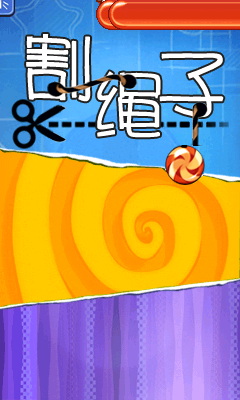
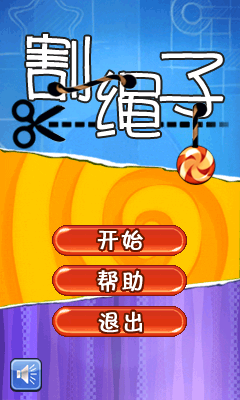
Refresh the four idle frames the CLZ fix changed, and re-state their rows
Re-capturing all 245 titles against 7826e3e reproduces 241 byte for byte.
Four move, all four because of 29235df (ARMv5 CLZ): a build of that commit
alone reproduces the new frames exactly, while b441741 and f1d9ca7 still
produce the old ones.  The change is text, and it is an improvement:

* 割绳子, 割绳子冬季版 - the title menu's 开始/帮助/退出 buttons had no labels
  and now show them, and the level-select grid that used to draw half off the
  top edge now lays out fully (4x5 tiles, 0/60 counter, back button).
* 恶魔城 - the second, fourth and fifth menu items all read 继续游戏 and now
  read 开始游戏/继续游戏/帮助信息/关于我们/退出游戏; the fourth still opens the
  关于我们 page, so label and action now agree (#176).
* 疯狂斗地主 - 退出游戏 was drawn roughly seven pixels below its button and is
  now centred in it.

Neither Idle state nor any fault text changes: still 243 Ready and 2 Halted, no
black frames, 245/245 captures.

The thumbnails for these four titles are replaced with the new frames, and the
three coverage cells say what the screen does now.  The two rope-cutting titles
are still not playable: with the grid laid out, tapping the first tile runs past
the 20M per-frame budget (0x01009F84 and 0x0100CC66) instead of being ignored,
so their rows record that new blocking point rather than the old clipped layout.

diff --git a/docs/Game-Compatibility.md b/docs/Game-Compatibility.md
@@ -235,8 +235,8 @@ not provide the original server's content or a real carrier payment service.
 | 5 | `B/世纪佳缘.CBE` | 240×400 | <img src="images/B/世纪佳缘.png" width="120" alt="世纪佳缘 idle frame"> | Required | Ready | Idle frame captured; interaction/gameplay unverified |
 | 6 | `B/众神之战.CBE` | 240×400 | <img src="images/B/众神之战.png" width="120" alt="众神之战 idle frame"> | No known requirement | Ready | Idle frame captured; interaction/gameplay unverified |
 | 7 | `B/僵尸先生.CBE` | 400×240 | <img src="images/B/僵尸先生.png" width="120" alt="僵尸先生 idle frame"> | No known requirement | Ready | Installation completes and the title renders, and the idle 200-frame capture stays Ready; under the issue's input sequence the run instead ends Halted with 95,760 px / 3 colours — the guest exits instead of continuing into gameplay (issue #167) |
-| 8 | `B/割绳子.CBE` | 240×400 | <img src="images/B/割绳子.png" width="120" alt="割绳子 idle frame"> | No known requirement | Ready | Episode boxes respond and a yellow level-select screen opens, but its buttons only peek from the top edge and a translucent bar runs down the centre; taps and 5 never reveal the rope, the candy or a playable level (issue #168) |
-| 9 | `B/割绳子冬季版.CBE` | 240×400 | <img src="images/B/割绳子冬季版.png" width="120" alt="割绳子冬季版 idle frame"> | No known requirement | Ready | The 150-frame replay already shows the same clipped level-select screen — buttons at the top edge, translucent centre bar — and taps and 5 never enter a rope-cutting level (issue #169) |
+| 8 | `B/割绳子.CBE` | 240×400 | <img src="images/B/割绳子.png" width="120" alt="割绳子 idle frame"> | No known requirement | Ready | The level-select screen used to draw its buttons only half off the top edge; the ARMv5 CLZ fix now lays out the whole 4×5 grid with the 0/60 star counter and the back button, and a tap on the first level tile now exceeds the 20M per-frame instruction budget at 0x01009F84 instead of being ignored, so no rope-cutting level is reached (issue #168) |
+| 9 | `B/割绳子冬季版.CBE` | 240×400 | <img src="images/B/割绳子冬季版.png" width="120" alt="割绳子冬季版 idle frame"> | No known requirement | Ready | The 150-frame replay used to show the same clipped level-select screen; the ARMv5 CLZ fix now lays out the whole 4×5 grid with its star counter and back button, and a tap on the first tile exceeds the 20M per-frame instruction budget at 0x0100CC66 instead of being ignored, so no level is reached (issue #169) |
 | 10 | `B/动感骰子.CBE` | 240×400 | <img src="images/B/动感骰子.png" width="120" alt="动感骰子 idle frame"> | No known requirement | Ready | The native exit dialog cancels and the gear opens settings with a dice preview, but returning still leaves an empty table and no dice or roll result by 580 frames (issue #170) |
 | 11 | `B/吸血鬼猎人.CBE` | 400×240 | <img src="images/B/吸血鬼猎人.png" width="120" alt="吸血鬼猎人 idle frame"> | No known requirement | Ready | Battle loads with UI, background and turret and firing consumes ammo (00500→00477), but the lighting is hard-edged yellow rectangles and opaque black squares appear after shots (issue #171) |
 | 12 | `B/在线书城.CBE` | 240×400 | <img src="images/B/在线书城.png" width="120" alt="在线书城 offline error prompt"> | Required | Halted | Offline failure prompt and normal timed exit verified; scrolling/font differences remain, online reading unverified |
@@ -252,7 +252,7 @@ not provide the original server's content or a real carrier payment service.
 | 22 | `B/忍者跳跃.CBE` | 240×400 | <img src="images/B/忍者跳跃.png" width="120" alt="忍者跳跃 idle frame"> | No known requirement | Ready | Walls, blue background, the pause icon and the top counter render and the counter reaches 398, but the ninja and its obstacles never appear, so no climb, jump or attack is visible (issue #175) |
 | 23 | `B/性爱宝典.CBE` | 240×400 | <img src="images/B/性爱宝典.png" width="120" alt="性爱宝典 idle frame"> | No known requirement | Ready | Disclaimer title, wrapped body and accept/reject labels render; interaction unverified |
 | 24 | `B/性爱高手.CBE` | 240×400 | <img src="images/B/性爱高手.png" width="120" alt="性爱高手 idle frame"> | No known requirement | Ready | Idle frame captured; interaction/gameplay unverified |
-| 25 | `B/恶魔城.CBE` | 240×400 | <img src="images/B/恶魔城.png" width="120" alt="恶魔城 idle frame"> | No known requirement | Ready | The main menu's second, fourth and fifth items all read 继续游戏; the fourth opens 关于我们 via three downs plus Confirm, so the visible labels do not match the actions. Levels still load, with left/right movement, camera scrolling and jump frames (issue #176) |
+| 25 | `B/恶魔城.CBE` | 240×400 | <img src="images/B/恶魔城.png" width="120" alt="恶魔城 idle frame"> | No known requirement | Ready | The main menu now labels its five items 开始游戏, 继续游戏, 帮助信息, 关于我们 and 退出游戏, and the fourth item opens the 关于我们 page as labelled; the ARMv5 CLZ fix corrected the labels, which used to repeat 继续游戏 on the second, fourth and fifth entries. Levels load, with left/right movement, camera scrolling and jump frames (issue #176) |
 | 26 | `B/恶魔城登录版.CBE` | 240×320 | <img src="images/B/恶魔城登录版.png" width="120" alt="恶魔城登录版 idle frame"> | Required | Ready | Idle frame captured; interaction/gameplay unverified |
 | 27 | `B/愤怒的小鸟.CBE` | 400×240 | <img src="images/B/愤怒的小鸟.png" width="120" alt="愤怒的小鸟 idle frame"> | No known requirement | Ready | PLAY opens SELECT EPISODE with a question-mark cake; taps on both, plus arrows and Confirm, never enter a slingshot level. A horizontal drag does flip the page dots to a second question-mark page (issue #177) |
 | 28 | `B/战争机器.CBE` | 240×400 | <img src="images/B/战争机器.png" width="120" alt="战争机器 idle frame"> | No known requirement | Ready | Title, menus and several story segments render, but the formal input sequence stops on the HELLFIRE icon and auto-aim prompt and the guest halts around frame 156 (Ready at the 240-frame checkpoint, exit 0); no shooting scene is reachable (issue #178) |
